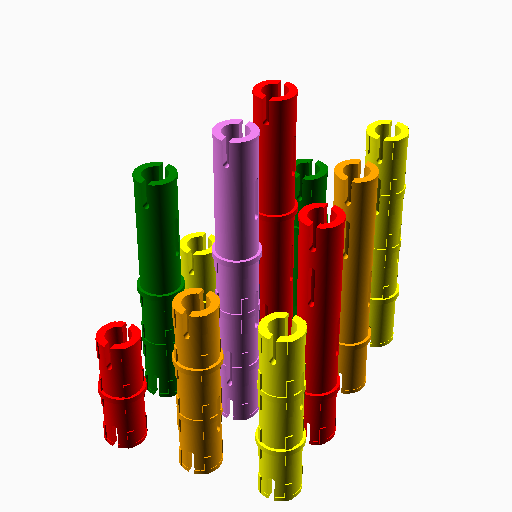
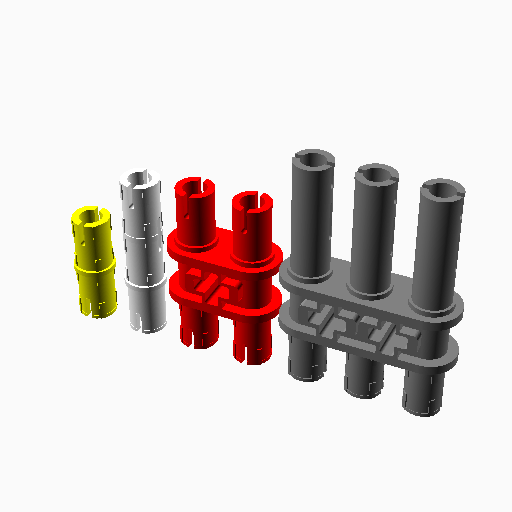
Added support for multiple-pin pieces.

diff --git a/README.md b/README.md
@@ -86,6 +86,8 @@ Generate a Technic-compatible pin.
 | `top_friction` | bool | Whether the top half of the pin should have friction ridges on it. |
 | `bottom_length` | int | In studs, how long the bottom half of the pin should be. |
 | `bottom_friction` | bool | Whether the bottom half of the pin should have friction ridges on it. |
+| `multiplier` | int | Should this generate multiple sets of connected pins? If so, how many? |
+| `squared_pin_holes` | bool | Whether the slits in the ends of the pins should be along the same plane instead of parallel to each other. ||
 
 `technic_pin_connector();`
 --------------------------
